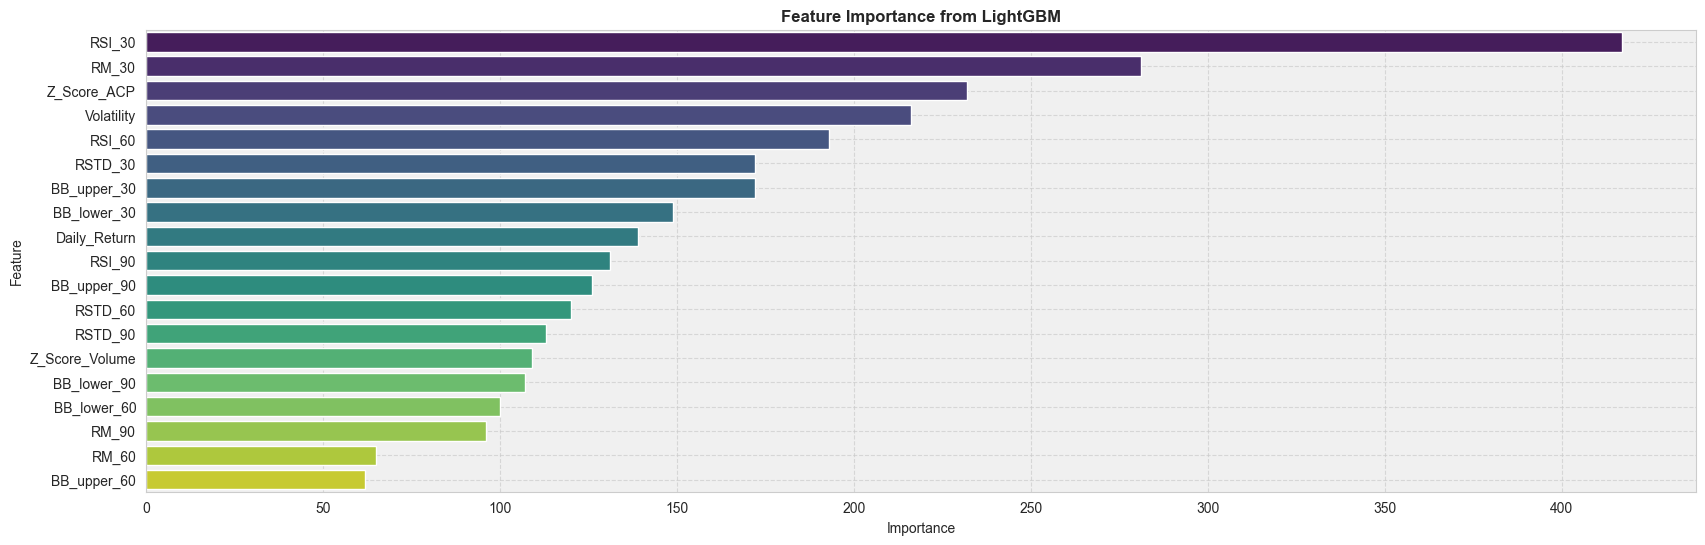
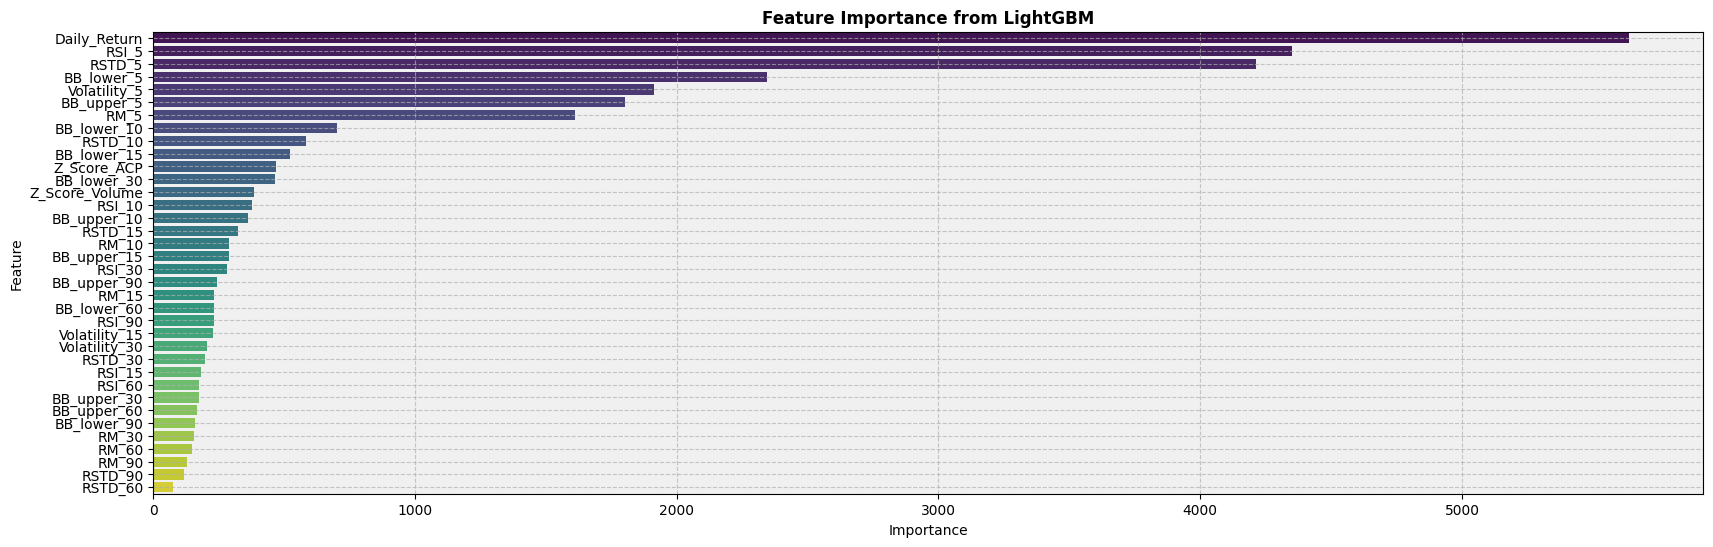
some more updates to the dataframes with the new features and adding RFE for LGBM

Changed region(s): [[0.0, 0.0, 1.0, 0.9982], [0.5906, 0.3743, 0.9326, 0.4055], [0.8393, 0.2807, 0.8704, 0.3119]]

diff --git a/Pages/Project.py b/Pages/Project.py
@@ -1074,8 +1074,12 @@ with st.container(border=True):
     import lightgbm as lgb
 
     # Initialize LightGBM model
-    lgb_model = lgb.LGBMRegressor(n_estimators=100, learning_rate=0.1, random_state=42)
-
+    lgb_model = lgb.LGBMRegressor(
+    objective="quantile",
+    alpha=0.3,  # Adjust this quantile based on performance (e.g., 0.5 for median)
+    learning_rate=0.01,
+    n_estimators=1000)
+    
     # Fit the model
     lgb_model.fit(X_train, y_train)
 
@@ -1146,11 +1150,78 @@ with st.container(border=True):
 
     st.image('https://raw.githubusercontent.com/Sami-Alyasin/Crystal-Stockball/refs/heads/main/data/featureimportance3.png')
 
+    st.code('''
+    # imploement RFE for LightGBM
+    # Initialize RFE with LightGBM as the estimator
+    rfe_lgb = RFE(estimator=lgb_model, n_features_to_select=10)
+
+    # Fit RFE
+    rfe_lgb.fit(X_train, y_train)
+
+    # Get the ranking of features
+    rfe_lgb_ranking = pd.DataFrame({
+        'Feature': feature_columns,
+        'Ranking': rfe_lgb.ranking_
+    }).sort_values(by='Ranking')
+
+    rfe_lgb_ranking
+            ''')
+    
+    url11a = "https://raw.githubusercontent.com/Sami-Alyasin/Crystal-Stockball/main/data/rfe_lgb_ranking.csv"
+    @st.cache_data
+    def load_data():
+        return pd.read_csv(url11a)
+    df11a = load_data()
+    st.dataframe(df11a)
 
     st.markdown('''
     Cross-Validation with LightGBM
     ''')
+    
+    st.code('''
+            # Select top features (from RFE or feature importance analysis)
+    selected_features = rfe_lgb_ranking[rfe_lgb_ranking['Ranking'] <= 8]['Feature'].tolist()
 
+    # Train the model with selected features
+    X_train_selected = X_train[selected_features]
+    X_test_selected = X_test[selected_features]
+
+    # Initialize LightGBM model
+    lgb_model2 = lgb.LGBMRegressor(
+        objective="quantile",
+        alpha=0.3,  # Adjust this quantile based on performance (e.g., 0.5 for median)
+        learning_rate=0.01,
+        n_estimators=1000
+    )
+
+    # Fit the model
+    lgb_model2.fit(X_train_selected, y_train)
+
+    # Predict on the test data
+    lgb_predictions = lgb_model2.predict(X_test_selected)
+
+    # Evaluate the model
+    lgb_mae = mean_absolute_error(y_test, lgb_predictions)
+    lgb_rmse = root_mean_squared_error(y_test, lgb_predictions)
+    lgb_mse = np.square(lgb_rmse)
+    lbg_r2 = r2_score(y_test, lgb_predictions)
+
+    # append LightGBM results
+    model_name = 'LightGBM w/RFE'
+    if model_name in evaluation_df['Model'].values:
+        evaluation_df.loc[evaluation_df['Model'] == model_name, ['MAE', 'MSE', 'RMSE', 'R2']] = [lgb_mae, lgb_mse, lgb_rmse, lbg_r2]
+    else:
+        evaluation_df.loc[len(evaluation_df)] = [model_name, lgb_mae, lgb_mse, lgb_rmse, lbg_r2]
+    evaluation_df)
+    ''')
+    
+    url11b = "https://raw.githubusercontent.com/Sami-Alyasin/Crystal-Stockball/main/data/evaluation_df5a.csv"
+    @st.cache_data
+    def load_data():
+        return pd.read_csv(url11b)
+    df11b = load_data()
+    st.dataframe(df11b)
+    
     st.code('''
     # Perform cross-validation
     cv_scores_lgb = cross_val_score(lgb_model, X_train, y_train, cv=tscv, scoring='neg_mean_squared_error')
